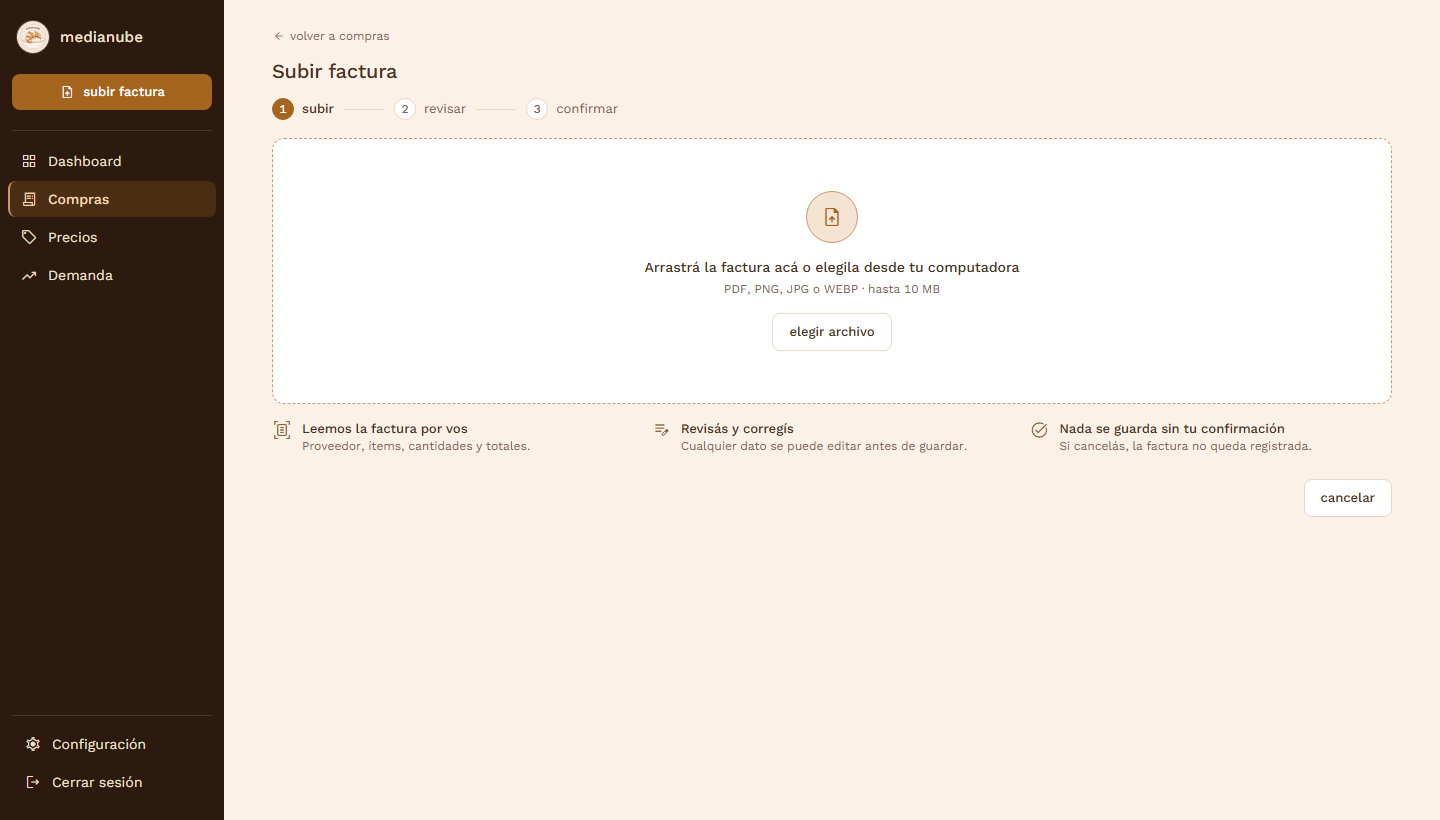
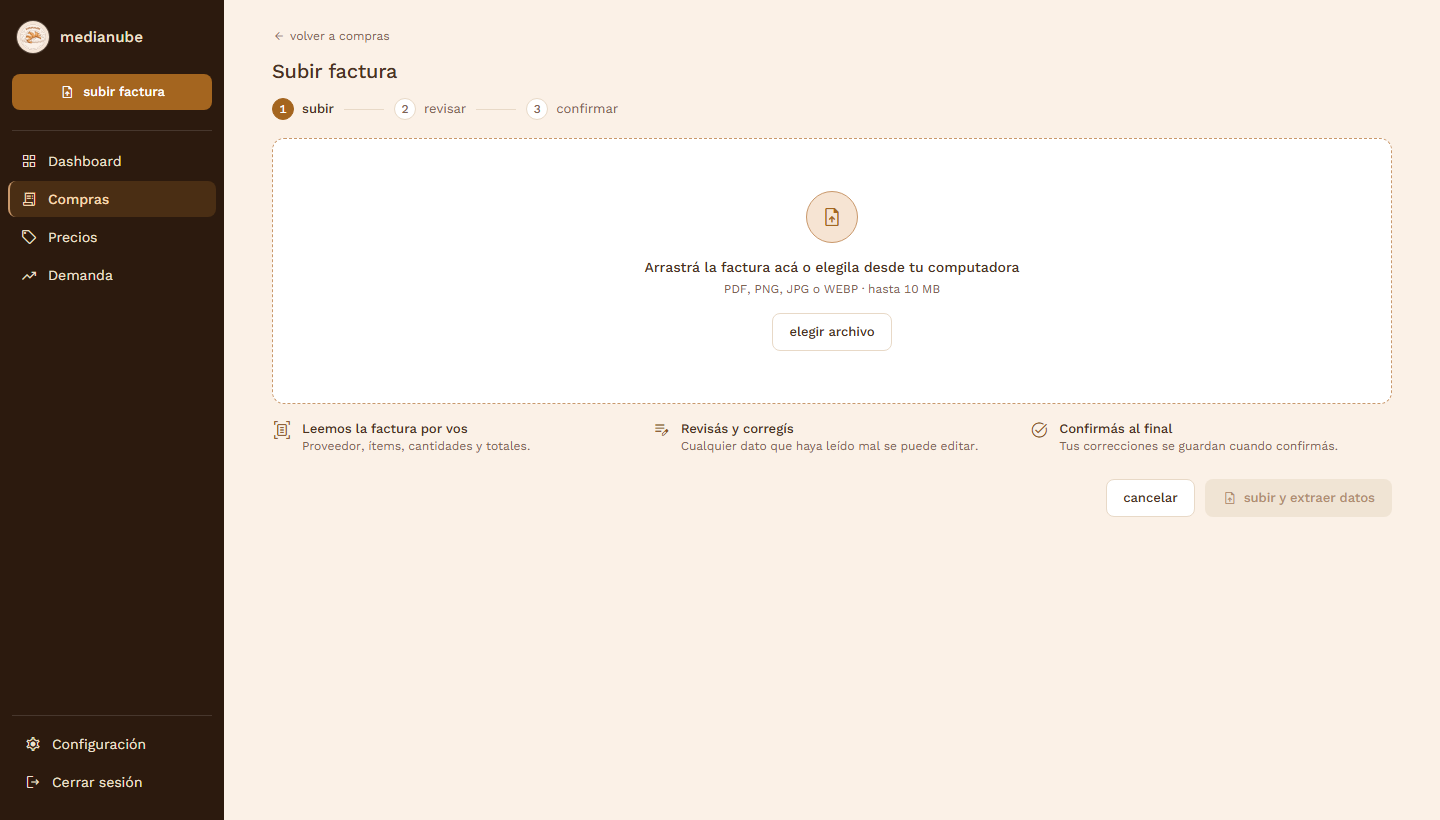
docs(uxui): adapta el plan a los cambios de main en subir factura y demanda

diff --git a/docs/UXUI/plan-mejora/mockups/08-demanda.html b/docs/UXUI/plan-mejora/mockups/08-demanda.html
@@ -10,6 +10,14 @@
   .rec .tr { grid-template-columns: 1fr 160px 140px; }
   .rec .tr > :nth-child(2) { text-align: right; }
   .rec .tr > :nth-child(3) { text-align: center; }
+  .wx { display: grid; grid-template-columns: repeat(7, 1fr); margin-top: 12px; padding-top: 12px; border-top: 1px dashed var(--divider); }
+  .wx div { display: flex; flex-direction: column; align-items: center; gap: 2px; }
+  .wx .ms { font-size: 20px; color: var(--text-2); }
+  .wx b { font-weight: 500; font-size: 13px; }
+  .wx small { font-size: 11px; color: var(--text-2); display: flex; align-items: center; gap: 2px; }
+  .wx small .ms { font-size: 12px; }
+  .wx .rain small { color: var(--text); font-weight: 500; }
+  .seg.days span { padding: 6px 10px; }
 </style>
 </head>
 <body>
@@ -21,9 +29,9 @@
       <div class="ph">
         <div>
           <h1>Predicción de demanda</h1>
-          <p>Cuánto producir en los próximos 7 días, según tu historial de ventas.</p>
+          <p>Cuánto producir en los próximos 7 días, según tu historial de ventas y el clima.</p>
         </div>
-        <span class="btn btn-primary"><span class="ms">autorenew</span>recalcular con IA</span>
+        <span class="btn btn-primary"><span class="ms">autorenew</span>actualizar</span>
       </div>
 
       <div class="alert alert-ia anchor" style="margin-bottom:16px">
@@ -33,44 +41,65 @@
       </div>
 
       <div class="kpis" style="grid-template-columns:repeat(3,1fr);margin-bottom:16px">
-        <div class="kpi anchor">
-          <span class="pin">4</span>
-          <div class="kpi-l">Producción para mañana</div>
-          <div class="kpi-v">315 <small>unidades</small></div>
-          <div class="kpi-s">sábado 14/11</div>
-        </div>
         <div class="kpi">
-          <div class="kpi-l">Próximos 7 días</div>
+          <div class="kpi-l">Producción prevista · próximos 7 días</div>
           <div class="kpi-v">1.633 <small>unidades</small></div>
-          <div class="kpi-s"><span class="ms s14">arrow_upward</span>+11% vs los últimos 7 días</div>
+          <div class="kpi-s">de sábado 14 a viernes 20</div>
         </div>
         <div class="kpi anchor">
           <span class="pin">8</span>
           <div class="kpi-l">Precisión de la predicción</div>
-          <div class="kpi-v">±9%</div>
-          <div class="kpi-s">desvío promedio de las últimas 4 semanas</div>
+          <div class="kpi-v">91,4%</div>
+          <div class="kpi-s">comparada con lo vendido los últimos 7 días</div>
+        </div>
+        <div class="kpi">
+          <div class="kpi-l">Productos en riesgo de faltante</div>
+          <div class="kpi-v">0</div>
+          <div class="kpi-s">ninguna predicción tiene confianza baja</div>
         </div>
       </div>
 
       <div class="card anchor" style="margin-bottom:16px">
         <span class="pin">3</span>
         <div class="card-h">
-          <h2><span class="ms">bar_chart</span>Producción diaria</h2>
-          <div class="legend"><span><i style="background:var(--bar-hist)"></i>últimos 7 días</span><span><i style="background:var(--bar-pred)"></i>predicción</span></div>
+          <h2><span class="ms">bar_chart</span>Producción prevista por día</h2>
+          <span class="f12 t2 row gap4"><span class="ms s14">water_drop</span>los días con lluvia, la producción prevista baja</span>
         </div>
         <div class="card-b" style="padding-top:20px">
-          <div class="chart" data-h="170" data-vals="all"
-               data-hist="296,118,186,172,228,214,262" data-pred="315,130,200,190,250,240,308"
-               data-labels="sá 7,do 8,lu 9,ma 10,mi 11,ju 12,vi 13,sá 14,do 15,lu 16,ma 17,mi 18,ju 19,vi 20"></div>
+          <div class="chart" style="height:190px">
+            <div class="grid" style="bottom:57px"></div><div class="grid" style="bottom:113px"></div>
+            <div class="c"><div class="val pk">315</div><div class="bar p" style="height:170px"></div></div>
+            <div class="c"><div class="val">130</div><div class="bar p" style="height:70px"></div></div>
+            <div class="c"><div class="val">200</div><div class="bar p" style="height:108px"></div></div>
+            <div class="c"><div class="val">190</div><div class="bar p" style="height:103px"></div></div>
+            <div class="c"><div class="val">250</div><div class="bar p" style="height:135px"></div></div>
+            <div class="c"><div class="val">240</div><div class="bar p" style="height:130px"></div></div>
+            <div class="c"><div class="val">308</div><div class="bar p" style="height:166px"></div></div>
+          </div>
+          <div class="xl"><span class="hoy">sá 14 · mañana</span><span>do 15</span><span>lu 16</span><span>ma 17</span><span>mi 18</span><span>ju 19</span><span>vi 20</span></div>
+          <div class="wx anchor">
+            <span class="pin">9</span>
+            <div><span class="ms">sunny</span><b>27°</b><small>0% lluvia</small></div>
+            <div class="rain"><span class="ms">rainy</span><b>19°</b><small><span class="ms">water_drop</span>80% lluvia</small></div>
+            <div><span class="ms">cloud</span><b>21°</b><small>20% lluvia</small></div>
+            <div><span class="ms">sunny</span><b>24°</b><small>10% lluvia</small></div>
+            <div><span class="ms">sunny</span><b>25°</b><small>0% lluvia</small></div>
+            <div><span class="ms">partly_cloudy_day</span><b>23°</b><small>30% lluvia</small></div>
+            <div><span class="ms">sunny</span><b>26°</b><small>5% lluvia</small></div>
+          </div>
         </div>
       </div>
 
       <div class="card rec">
-        <div class="card-h anchor">
-          <span class="pin">5</span>
-          <h2>Producción sugerida para mañana <span class="f13 t2" style="font-weight:400">· sábado 14/11</span>
+        <div class="card-h">
+          <h2>Producción sugerida <span class="f13 t2" style="font-weight:400">· sábado 14/11</span>
             <span class="badge b-ia anchor"><span class="ms">auto_awesome</span>IA<span class="pin out-r">1</span></span></h2>
           <span class="btn btn-secondary btn-sm anchor"><span class="ms s14">print</span>imprimir lista<span class="pin r">7</span></span>
+        </div>
+        <div class="row" style="padding:12px 16px;border-bottom:1px solid var(--border)">
+          <div class="anchor" style="display:inline-flex"><span class="pin">5</span><div class="seg days">
+            <span class="on">sá 14</span><span>do 15</span><span>lu 16</span><span>ma 17</span><span>mi 18</span><span>ju 19</span><span>vi 20</span>
+          </div></div>
         </div>
         <div class="tr th"><span>Producto</span><span>Cantidad</span><span>Confianza</span></div>
         <div class="tr"><span class="fw5">Medialunas de manteca</span><span>100 <span class="f12 t2">unidades</span></span><span><span class="badge b-ok">alta</span></span></div>
@@ -78,9 +107,9 @@
         <div class="tr"><span class="fw5">Medialuna de jamón y queso</span><span>60 <span class="f12 t2">unidades</span></span><span><span class="badge b-ok">alta</span></span></div>
         <div class="tr"><span class="fw5">Tarta de ricota</span><span>40 <span class="f12 t2">porciones</span></span><span><span class="badge b-neu">media</span></span></div>
         <div class="tr"><span class="fw5">Café con leche</span><span>20 <span class="f12 t2">vasos</span></span><span><span class="badge b-neu">media</span></span></div>
-        <div class="tr"><span class="fw5">Té con leche</span><span>15 <span class="f12 t2">vasos</span></span><span><span class="badge b-neu">media</span></span></div>
+        <div class="tr"><span class="fw5">Té con leche</span><span>15 <span class="f12 t2">vasos</span></span><span><span class="badge b-neu">sin dato</span></span></div>
         <div class="row gap6 f12 t2" style="padding:12px 16px;border-top:1px solid var(--border)">
-          <span class="ms s14">info</span>La confianza baja cuando hay pocos datos de un producto. Si la IA no la informa, se muestra «sin dato».
+          <span class="ms s14">info</span>La confianza baja cuando hay pocos datos de un producto. Si no hay información, se muestra «sin dato».
         </div>
       </div>
 

diff --git a/docs/UXUI/plan-mejora/mockups/06c-subir-leyendo.html b/docs/UXUI/plan-mejora/mockups/06c-subir-leyendo.html
@@ -1,0 +1,66 @@
+<!doctype html>
+<html lang="es">
+<head>
+<meta charset="utf-8">
+<title>Subir factura (leyendo) · mockup</title>
+<link href="https://fonts.googleapis.com/css2?family=Work+Sans:wght@400;500&display=block" rel="stylesheet">
+<link href="https://fonts.googleapis.com/css2?family=Material+Symbols+Outlined:opsz,wght,FILL,GRAD@20..48,100..700,0..1,-50..200&display=block" rel="stylesheet">
+<link rel="stylesheet" href="base.css">
+<style>
+  .sk-row { display: grid; grid-template-columns: 2.4fr 90px 130px 120px 110px 32px; column-gap: 16px; align-items: center; padding: 14px 16px; border-top: 1px solid var(--subtle); }
+  .track { height: 4px; border-radius: 999px; background: var(--divider); overflow: hidden; margin-top: 12px; }
+  .track i { display: block; width: 38%; height: 100%; margin-left: 22%; border-radius: 999px; background: var(--accent); }
+</style>
+</head>
+<body>
+<div class="app">
+  <aside class="sidebar" data-active="compras"></aside>
+  <main class="main">
+    <div class="wrap">
+
+      <p class="row gap4 f12 t2" style="margin-bottom:14px"><span class="ms s14">arrow_back</span>volver a compras</p>
+      <div class="ph" style="margin-bottom:14px"><h1>Subir factura</h1></div>
+
+      <div class="steps">
+        <span class="st done"><i><span class="ms s14">check</span></i>subir</span><span class="ln"></span>
+        <span class="st on"><i>2</i>revisar</span><span class="ln"></span>
+        <span class="st"><i>3</i>confirmar</span>
+      </div>
+
+      <div class="card row gap16" style="padding:12px 16px;margin-bottom:12px">
+        <span class="ms s24 tacc">description</span>
+        <div><p class="fw5">factura-distribuidora-sur-0012.pdf</p><p class="f12 t2">412 KB · subida</p></div>
+        <span class="vdiv"></span>
+        <div class="col gap6" style="width:220px"><span class="sk" style="width:70%"></span><span class="sk" style="width:45%;height:8px"></span></div>
+        <span class="grow"></span>
+      </div>
+
+      <div class="alert alert-ia anchor" style="margin-bottom:12px;flex-direction:column;align-items:stretch">
+        <span class="pin">4</span>
+        <div class="row gap10">
+          <span class="ms s18 ia-mark">auto_awesome</span>
+          <p class="grow"><span class="fw5">Leyendo tu factura…</span> Suele tardar unos segundos. Si preferís no esperar, la vas a ver en Compras cuando esté lista.</p>
+        </div>
+        <div class="track"><i></i></div>
+      </div>
+
+      <div class="card" style="margin-bottom:16px">
+        <div class="card-h"><h2>Ítems de la factura</h2></div>
+        <div class="tr th" style="grid-template-columns:2.4fr 90px 130px 120px 110px 32px"><span>Producto</span><span style="text-align:center">Cantidad</span><span class="num">Precio unitario</span><span class="num">Subtotal</span><span style="text-align:center">Confianza</span><span></span></div>
+        <div class="sk-row" style="border-top:none"><div class="col gap6"><span class="sk" style="width:55%"></span><span class="sk" style="width:35%;height:8px"></span></div><span class="sk" style="width:30px;margin:0 auto"></span><span class="sk" style="width:70%;margin-left:auto"></span><span class="sk" style="width:65%;margin-left:auto"></span><span class="sk" style="width:46px;margin:0 auto"></span><span></span></div>
+        <div class="sk-row"><div class="col gap6"><span class="sk" style="width:40%"></span><span class="sk" style="width:28%;height:8px"></span></div><span class="sk" style="width:30px;margin:0 auto"></span><span class="sk" style="width:60%;margin-left:auto"></span><span class="sk" style="width:70%;margin-left:auto"></span><span class="sk" style="width:46px;margin:0 auto"></span><span></span></div>
+        <div class="sk-row"><div class="col gap6"><span class="sk" style="width:62%"></span><span class="sk" style="width:30%;height:8px"></span></div><span class="sk" style="width:30px;margin:0 auto"></span><span class="sk" style="width:66%;margin-left:auto"></span><span class="sk" style="width:58%;margin-left:auto"></span><span class="sk" style="width:46px;margin:0 auto"></span><span></span></div>
+        <div class="sk-row"><div class="col gap6"><span class="sk" style="width:48%"></span><span class="sk" style="width:32%;height:8px"></span></div><span class="sk" style="width:30px;margin:0 auto"></span><span class="sk" style="width:62%;margin-left:auto"></span><span class="sk" style="width:64%;margin-left:auto"></span><span class="sk" style="width:46px;margin:0 auto"></span><span></span></div>
+      </div>
+
+      <div class="row gap10" style="justify-content:flex-end">
+        <span class="btn btn-secondary">volver a compras</span>
+        <span class="btn btn-disabled"><span class="ms">hourglass_empty</span>leyendo…</span>
+      </div>
+
+    </div>
+  </main>
+</div>
+<script src="shell.js"></script>
+</body>
+</html>

diff --git a/docs/UXUI/plan-mejora/mockups/06a-subir-vacio.html b/docs/UXUI/plan-mejora/mockups/06a-subir-vacio.html
@@ -32,12 +32,13 @@
       <div class="anchor" style="display:grid;grid-template-columns:repeat(3,1fr);gap:16px;margin-top:16px">
         <span class="pin">3</span>
         <div class="row gap10" style="align-items:flex-start"><span class="ms s20 tacc-d">document_scanner</span><div><p class="fw5">Leemos la factura por vos</p><p class="help">Proveedor, ítems, cantidades y totales.</p></div></div>
-        <div class="row gap10" style="align-items:flex-start"><span class="ms s20 tacc-d">edit_note</span><div><p class="fw5">Revisás y corregís</p><p class="help">Cualquier dato se puede editar antes de guardar.</p></div></div>
-        <div class="row gap10" style="align-items:flex-start"><span class="ms s20 tacc-d">task_alt</span><div><p class="fw5">Nada se guarda sin tu confirmación</p><p class="help">Si cancelás, la factura no queda registrada.</p></div></div>
+        <div class="row gap10" style="align-items:flex-start"><span class="ms s20 tacc-d">edit_note</span><div><p class="fw5">Revisás y corregís</p><p class="help">Cualquier dato que haya leído mal se puede editar.</p></div></div>
+        <div class="row gap10" style="align-items:flex-start"><span class="ms s20 tacc-d">task_alt</span><div><p class="fw5">Confirmás al final</p><p class="help">Tus correcciones se guardan cuando confirmás.</p></div></div>
       </div>
 
-      <div class="row" style="justify-content:flex-end;margin-top:24px">
-        <span class="btn btn-secondary anchor">cancelar<span class="pin r">2</span></span>
+      <div class="row gap10" style="justify-content:flex-end;margin-top:24px">
+        <span class="btn btn-secondary">cancelar</span>
+        <span class="btn btn-disabled anchor"><span class="ms">upload_file</span>subir y extraer datos<span class="pin r">2</span></span>
       </div>
 
     </div>

diff --git a/docs/UXUI/plan-mejora/mockups/00-componentes.html b/docs/UXUI/plan-mejora/mockups/00-componentes.html
@@ -118,14 +118,14 @@
         <div class="card-h"><h2>Popup de confirmación</h2></div>
         <div class="card-b" style="background:rgba(44,26,14,0.38);border-radius:0 0 12px 12px;padding:20px">
           <div class="dialog" style="width:auto;padding:20px">
-            <h3 style="font-size:16px">¿Descartar esta factura?</h3>
-            <p class="t2">Se pierden los cambios que hiciste en la revisión.</p>
+            <h3 style="font-size:16px">¿Salir sin confirmar?</h3>
+            <p class="t2">La factura ya quedó registrada con lo que leyó la IA. Se pierden tus correcciones.</p>
             <div class="row gap10" style="justify-content:flex-end;margin-top:16px">
               <span class="btn btn-secondary btn-sm">seguir revisando</span>
-              <span class="btn btn-sm" style="background:var(--warn);color:#fff">descartar</span>
+              <span class="btn btn-sm" style="background:var(--warn);color:#fff">salir sin confirmar</span>
             </div>
           </div>
-          <p class="f12" style="color:#F6E4D3;margin-top:10px">Solo para acciones irreversibles o con plata: aplicar precio, descartar factura, salir sin guardar.</p>
+          <p class="f12" style="color:#F6E4D3;margin-top:10px">Solo para acciones irreversibles o con plata: aplicar precio, salir de una revisión, salir sin guardar.</p>
         </div>
       </div>
     </div>

diff --git a/docs/UXUI/plan-mejora/mockups/06b-subir-revision.html b/docs/UXUI/plan-mejora/mockups/06b-subir-revision.html
@@ -37,7 +37,7 @@
         <div><p class="fw5">factura-distribuidora-sur-0012.pdf</p><p class="f12 t2">412 KB</p></div>
         <span class="vdiv"></span>
         <div><p class="fw5">Distribuidora Sur S.A.</p><p class="f12 t2">CUIT 30-71449821-4</p></div>
-        <span class="badge b-ok">coincide 99% con un proveedor tuyo</span>
+        <span class="badge b-ia"><span class="ms">auto_awesome</span>IA</span>
         <span class="grow"></span>
         <span class="btn btn-text btn-sm" style="color:var(--text-2)"><span class="ms s14">close</span>quitar</span>
       </div>
@@ -45,7 +45,7 @@
       <div class="alert alert-ia anchor" style="margin-bottom:12px">
         <span class="pin">5</span>
         <span class="ms s18 ia-mark">auto_awesome</span>
-        <p class="grow">La IA leyó <span class="fw5">8 productos</span> por <span class="fw5">$108.970</span> más impuestos. <span class="twarn fw5">1 producto tiene confianza baja</span>: revisalo antes de guardar.</p>
+        <p class="grow">La IA leyó <span class="fw5">8 productos</span> por <span class="fw5">$108.970</span> más impuestos. <span class="twarn fw5">1 producto tiene confianza baja</span>: revisalo antes de confirmar.</p>
         <span class="link">ver solo ese</span>
       </div>
 

diff --git a/docs/UXUI/plan-mejora/PLAN-MEJORA-UX-UI.md b/docs/UXUI/plan-mejora/PLAN-MEJORA-UX-UI.md
@@ -19,7 +19,18 @@ Plan por etapas para mejorar la experiencia y la interfaz de las 9 pantallas del
 
 Prioridad: **P0** bloquea la tarea · **P1** confunde o puede causar errores (resolver primero) · **P2** molestia con salida alternativa · **P3** pulido.
 
-`📍n` = marcador visible en el PNG de esa pantalla.
+`📍n` = marcador visible en el PNG de esa pantalla. ✅ = ítem ya resuelto (total o parcialmente) en `main`.
+
+### Cambios de `main` incorporados al plan (13/11/2026)
+
+Después de escribir la primera versión del plan entraron a `main` cambios de otro integrante del equipo (PR #98 a #108). Los que tocan la interfaz son dos pantallas; el resto es backend, infraestructura y documentación:
+
+| Pantalla | Qué cambió en `main` | Cómo se adaptó el plan |
+|---|---|---|
+| **Subir factura** | Ítems reales leídos por la IA en lugar de ejemplos, estado de "procesando" y botón en dos pasos ("Subir y extraer datos" → "Confirmar y guardar"). | Ítems 2 y 4 marcados como resueltos en parte. Se agregó el ítem 11 ("Confirmar y guardar" no guarda las correcciones) y se reescribieron el 3, el 5 y el 10. Hay una vista nueva: `06c-subir-leyendo.png`. |
+| **Demanda** | Datos reales de `GET /demanda`, gráfico solo con la predicción, botón "Actualizar" y pronóstico del clima. | Ítem 4 resuelto, ítems 3, 6 y 8 en parte. El 5 pasó a P1 (la tabla mezcla días) y se sumaron el 9 (clima integrado al gráfico) y el 10 (color de los días de lluvia). El mockup `08-demanda.png` se rehízo sobre la pantalla nueva. |
+
+Ningún cambio de `main` contradice la Etapa 0 ni el cambio de paleta (0.15).
 
 ---
 
@@ -39,7 +50,7 @@ Prioridad: **P0** bloquea la tarea · **P1** confunde o puede causar errores (re
 3. **Demasiados botones primarios.** El `DESIGN.md` pide una acción de acento sólido por pantalla. Hoy Precios tiene 8 botones sólidos, el Dashboard 4 y Compras 3.
 4. **Jerga técnica a la vista del usuario:** "Lambda", "DynamoDB", "Gemini", "modelo v2.4", "ID: sug-4e19a695…", "tablas Producto y Receta-nueva", "Estado: completed", "Cargando datos desde la nube".
 5. **Acciones con plata sin confirmación.** "Aplicar precio" cambia el precio de venta con un clic, sin mostrar el antes y el después ni permitir deshacer.
-6. **Datos que se contradicen entre pantallas.** El Dashboard saluda a "Panadería La Espiga" y Configuración dice "Panadería Central". El Dashboard muestra 2 alertas de precio y Precios dice 0. Producción prevista dice 2.180 u. en el Dashboard y 315 u. en Demanda.
+6. **Datos que se contradicen entre pantallas.** El Dashboard saluda a "Panadería La Espiga" y Configuración dice "Panadería Central". El Dashboard muestra 2 alertas de precio y Precios dice 0. Producción prevista dice 2.180 u. en el Dashboard (mock) y otro número en Demanda (datos reales).
 7. **Contraste insuficiente.** `text-secondary` (#8C7361) sobre el fondo crema da 3,98:1 y `text-muted` (#B08D6F) da 2,74:1. Ambos quedan por debajo del mínimo AA (4,5:1) y se usan para subtítulos y textos de ayuda. Además, el texto blanco sobre el acento caramelo (#B5722E) de los botones primarios da 3,9:1.
 
 **Puntaje heurístico estimado (Nielsen, 0–4):** 22/40, **Aceptable**. Los puntos más bajos son *prevención de errores* (1), *consistencia* (2), *diseño minimalista* (2) y *correspondencia con el mundo real* (2, por la jerga técnica).
@@ -176,20 +187,31 @@ Prioridad: **P0** bloquea la tarea · **P1** confunde o puede causar errores (re
 
 ## Etapa 6 · Subir factura — `/compras/subir`
 
-**Objetivo:** cargar una factura y confiar en lo que leyó la IA antes de guardarla. Previsualizaciones: [`06a-subir-vacio.png`](png/06a-subir-vacio.png) (antes de elegir archivo) y [`06b-subir-revision.png`](png/06b-subir-revision.png) (revisión).
+**Objetivo:** cargar una factura y confiar en lo que leyó la IA antes de guardarla. Previsualizaciones: [`06a-subir-vacio.png`](png/06a-subir-vacio.png) (antes de elegir archivo), [`06c-subir-leyendo.png`](png/06c-subir-leyendo.png) (mientras la IA lee la factura) y [`06b-subir-revision.png`](png/06b-subir-revision.png) (revisión).
+
+> **Actualizado con los cambios de `main` del 13/11** (PR #103 y commit `119108a`). La pantalla ya no usa ítems de ejemplo: sube el archivo, espera a que la IA lo lea (consultando `/compras` cada 3 s, hasta 60 s) y muestra los ítems reales. El botón principal ahora es "Subir y extraer datos" y pasa a "Confirmar y guardar" recién cuando hay datos.
 
 | # | Tipo | Qué | Por qué | Prio |
 |---|---|---|---|---|
-| 📍1 | Agregar | **Indicador de pasos** "1 subir · 2 revisar · 3 confirmar". El componente `StepIndicator.tsx` ya existe y no se usa. | Orienta en un flujo de varios pasos (§5.4 del `DESIGN.md`). | P2 |
-| 📍2 | Corregir | Antes de elegir archivo, **ocultar** "Confirmar y guardar". Hoy se ve habilitado aunque no hace nada. | Un botón primario que no responde parece roto. | P1 |
-| 📍3 | Agregar | En el estado vacío, tres líneas breves de qué va a pasar: "leemos proveedor, ítems y totales · vas a poder corregir todo · no se guarda nada hasta que confirmes". | Baja la ansiedad de subir un documento con plata y llena una pantalla que hoy está vacía. | P2 |
-| 4 | Agregar | Estado "leyendo tu factura…" con skeleton de la tabla y barra de progreso mientras la IA extrae los datos. | Hoy la tabla aparece de golpe. Hay que mostrar que el sistema trabaja. | P2 |
-| 📍5 | Resaltar | En el banner de IA: "**1 ítem con confianza baja**: revisalo antes de guardar". La fila correspondiente se marca con fondo de advertencia suave. | La revisión es el paso clave del flujo (§5.4). El usuario tiene que saber *dónde* mirar. | P1 |
-| 📍6 | Simplificar | **Mostrar todos los ítems** (8 no es mucho), sin colapsar a 3. | Con el colapso, la fila de confianza baja (ítem 8) queda oculta, justo la que hay que revisar. | P1 |
-| 📍7 | Simplificar | **Proveedor detectado integrado** en la tarjeta del archivo, en una sola fila: archivo · proveedor · CUIT · coincidencia. | Dos tarjetas para datos del mismo documento es carga visual innecesaria. | P2 |
+| 📍1 | Agregar | **Indicador de pasos** "1 subir · 2 revisar · 3 confirmar". El componente `StepIndicator.tsx` ya existe y no se usa. Con el flujo nuevo, los tres momentos existen de verdad. | Orienta en un flujo de varios pasos (§5.4 del `DESIGN.md`). | P2 |
+| 📍2 | Corregir | ✅ *Resuelto en parte por el compañero:* sin archivo, el botón principal ("Subir y extraer datos") queda deshabilitado en vez de parecer activo. **Falta:** usar el estilo de deshabilitado del sistema (0.3) en lugar de bajar la opacidad, y `cursor: not-allowed` (hoy sigue en `pointer`). | Un botón deshabilitado tiene que verse y comportarse como tal. | P3 |
+| 📍3 | Agregar | En el estado vacío, tres líneas breves de qué va a pasar: "leemos proveedor, ítems y totales · vas a poder corregir todo · confirmás al final". **Ojo:** no prometer "no se guarda nada hasta que confirmes": con el flujo nuevo, la factura queda registrada apenas la IA la lee. | Baja la ansiedad de subir un documento con plata. El texto tiene que decir lo que realmente pasa. | P2 |
+| 📍4 | Corregir | ✅ *Resuelto en parte:* ya existe un estado de "procesando". **Falta:** cambiar el texto "Procesando factura en la cola SQS con Gemini Vision…" por "Leyendo tu factura… suele tardar unos segundos", sumar un skeleton de la tabla y una barra de progreso indeterminada. | Jerga técnica (0.7). El skeleton anticipa qué va a aparecer. | P1 |
+| 📍5 | Corregir | **No inventar confianza.** Hoy todos los ítems que lee la IA se muestran con confianza "alta" fija (el OCR no la informa) y el banner también dice "confianza alta" fijo. Mientras el backend no mande la confianza por ítem, no mostrarla. Cuando la mande, resaltar los ítems con confianza baja en el banner ("1 ítem con confianza baja: revisalo") y en la fila, como en el mockup. | Principio 4 del `DESIGN.md`: decir "alta" sin saberlo hace que el usuario no revise justo lo que debería. | P1 |
+| 📍6 | Simplificar | **Mostrar todos los ítems**, sin colapsar a 3 (`InvoiceTable` no cambió). | Con facturas reales, la fila que hay que revisar puede quedar oculta. | P1 |
+| 📍7 | Simplificar | **Proveedor detectado integrado** en la tarjeta del archivo, en una sola fila: archivo · proveedor · CUIT. El badge "IA OCR" pasa a ser el badge "IA" del sistema (0.6). | Dos tarjetas para datos del mismo documento es carga visual innecesaria. "OCR" es jerga técnica. | P2 |
 | 📍8 | Corregir | Badges de confianza sin `✓` ni `⚠`, y el encabezado de columna "Estado AI" pasa a "confianza". | Ver 0.4. Además "Estado AI" mezcla inglés y no dice qué mide. | P3 |
 | 📍9 | Simplificar | Resumen de totales en bloque a la derecha, como en una factura real: subtotal, IVA, percepciones y total. | El ojo busca el total abajo a la derecha. | P3 |
-| 10 | Agregar | **Popup** al cancelar con datos cargados: "¿descartar esta factura? Se pierden los cambios que hiciste." | Evita perder la revisión por un clic accidental. | P2 |
+| 10 | Agregar | **Popup** al salir de la revisión con correcciones sin confirmar: "¿Salir sin confirmar? La factura ya quedó registrada con lo que leyó la IA; se pierden tus correcciones." | Evita perder la revisión por un clic accidental, sin prometer algo que no pasa. | P2 |
+| 11 | Corregir | **"Confirmar y guardar" no guarda las correcciones**: hoy solo vuelve a Compras y lo editado en la tabla se pierde. Hace falta que mande los ítems corregidos al backend. Mientras tanto, el botón debería llamarse "volver a compras" o la tabla no debería ser editable. | El botón promete algo que no hace (heurística 1). Es el problema más grave de la pantalla. | P1 |
+
+**Copy**
+
+| Antes | Después |
+|---|---|
+| Procesando factura en la cola SQS con Gemini Vision… (esto puede demorar unos segundos) | Leyendo tu factura… suele tardar unos segundos. |
+| El análisis por IA demoró más de 60 segundos. Podés verificar la factura más tarde en el historial de compras. | La lectura está tardando más de lo normal. Te avisamos en Compras cuando esté lista. **[ir a compras]** |
+| Distribuidora detectada · IA OCR | *(una sola fila)* Distribuidora Sur S.A. · CUIT 30-71449821-4 · **IA** |
 
 ---
 
@@ -226,18 +248,32 @@ Prioridad: **P0** bloquea la tarea · **P1** confunde o puede causar errores (re
 
 ## Etapa 8 · Predicción de demanda — `/demanda`
 
-**Objetivo:** saber cuánto producir mañana y anticipar los picos. Previsualización: [`08-demanda.png`](png/08-demanda.png).
+**Objetivo:** saber cuánto producir cada día y anticipar los picos. Previsualización: [`08-demanda.png`](png/08-demanda.png).
+
+> **Actualizado con los cambios de `main` del 13/11** (PR #104, #106 y #108). La pantalla ahora lee datos reales de `GET /demanda` (se fueron los mocks), el gráfico muestra solo la predicción (se quitaron el histórico y el marcador "hoy"), el botón pasó de "Recalcular con IA" a "Actualizar" y se sumó una tarjeta con el **pronóstico del clima** de 7 días.
 
 | # | Tipo | Qué | Por qué | Prio |
 |---|---|---|---|---|
-| 📍1 | Quitar | El banner "Datos con IA. La sugerencia la generó el modelo a partir del contexto enviado a la Lambda.". La marca IA pasa al título de la tabla. El aviso de modo "reglas" se mantiene, pero en lenguaje humano. | Jerga técnica (0.7). El estado normal no necesita un banner: solo el caso excepcional. | P1 |
-| 📍2 | Agregar | **Banner de recomendación del pico** (§5.7): "El sábado se espera el pico de la semana: +35% sobre el promedio. Conviene reforzar medialunas y pan francés." | Es la acción más valiosa de la pantalla y hoy solo aparece en el dashboard. | P2 |
-| 📍3 | Resaltar | Gráfico con **valores** sobre las barras, fecha en el eje X ("sáb 14") y marca "hoy" más clara. | Sin valores ni eje Y, el gráfico solo dice "más alto" o "más bajo". | P2 |
-| 📍4 | Corregir | KPI "producción total prevista: 315 u. para los próximos 7 días": 315 es la suma de *mañana*. Corregir la etiqueta ("para mañana") o el cálculo. | El dato es incorrecto tal como está rotulado. | P1 |
-| 📍5 | Simplificar | La tabla pasa a ser una tarjeta con título "Producción sugerida para mañana · sábado 14/11", columnas "producto · cantidad · confianza" y orden por cantidad. | Hoy el título de la tabla está metido como encabezado de columna en mayúsculas. | P2 |
-| 6 | Corregir | **No inventar confianza**: `asConfidence()` elige un valor *al azar* cuando la API no lo manda. Mostrar "sin dato" en ese caso. | Viola el principio 4 del `DESIGN.md` (honestidad en la incertidumbre): el usuario confía en un dato aleatorio. | P1 |
-| 📍7 | Agregar | Botón secundario "imprimir lista" para el obrador. | En una panadería real, la lista de producción se lleva impresa al horno. | P3 |
-| 📍8 | Corregir | "Precisión del modelo 91,4%" está hardcodeado: mostrarlo solo si viene del backend y explicarlo en simple ("se desvió 9% en promedio las últimas 4 semanas"). | Un número fijo que se presenta como métrica del modelo es engañoso. | P2 |
+| 📍1 | Quitar | El banner "Datos con IA. La sugerencia la generó el modelo a partir del contexto enviado a la Lambda.". Ahora aparece **dos veces**: también sobre el pronóstico del clima, porque `EstadoApi` lo envuelve, y el clima no lo calcula la IA. La marca IA pasa al título de la tabla. El aviso de modo "reglas" se mantiene, pero en lenguaje humano. | Jerga técnica (0.7) y una afirmación falsa sobre el clima. El estado normal no necesita un banner, solo el caso excepcional. | P1 |
+| 📍2 | Agregar | **Banner de recomendación del pico** (§5.7): "El sábado se espera el pico de la semana: +35% sobre el promedio. Conviene reforzar medialunas de manteca y pan francés." | Es la acción más valiosa de la pantalla y todavía no está. | P2 |
+| 📍3 | Resaltar | ✅ *En parte:* sacar el histórico simplificó el gráfico y el marcador "hoy" ya no hace falta. **Falta:** **valores** sobre las barras y la fecha en el eje ("sá 14" en vez de solo "sáb", que se repite si hay más de una semana). | Sin valores ni eje Y, el gráfico solo dice "más alto" o "más bajo". | P2 |
+| 4 | Corregir | ✅ *Resuelto por el compañero:* "producción total prevista para los próximos 7 días" ahora suma los 7 días que devuelve la API, así que el dato coincide con su etiqueta. | — | — |
+| 📍5 | Corregir | **La tabla mezcla días.** Ahora lista los productos de los 7 días juntos sin mostrar la fecha, así que el mismo producto puede aparecer hasta 7 veces sin saber de qué día es cada fila. Sumar un **selector de día** (por defecto, mañana) y titular la tarjeta "Producción sugerida · sábado 14/11", con columnas "producto · cantidad · confianza" y orden por cantidad. | Sin la fecha, la tabla no sirve para planificar la producción. | P1 |
+| 6 | Corregir | ✅ *En parte:* la confianza ya no es aleatoria. **Falta:** cuando la API no la manda, hoy se muestra "media" por defecto. Mostrar "sin dato" en ese caso. | Principio 4 del `DESIGN.md` (honestidad en la incertidumbre). | P2 |
+| 📍7 | Agregar | Botón secundario "imprimir lista" para el obrador (imprime el día elegido en el selector). | En una panadería real, la lista de producción se lleva impresa al horno. | P3 |
+| 📍8 | Corregir | ✅ *En parte:* la precisión ya viene del backend (`precision`). **Falta:** cambiar el subtítulo "backtest de los últimos 7 días" por algo simple: "comparada con lo que se vendió los últimos 7 días". | "Backtest" es jerga técnica. | P3 |
+| 📍9 | Simplificar | **Clima integrado al gráfico.** En lugar de una tarjeta aparte con 7 cajitas, mostrar debajo de cada barra el ícono del clima, la máxima y el % de lluvia. Así se lee directo por qué un día baja la producción (p. ej., domingo con lluvia: 130 u.). Si el pronóstico no está disponible, la fila de clima desaparece y el gráfico sigue igual. | Una tarjeta menos, y el clima queda al lado del dato al que afecta, en vez de obligar a cruzar dos bloques. | P2 |
+| 10 | Corregir | Los días de lluvia se pintan con el fondo de **advertencia** (rojizo). La lluvia es información, no un riesgo: usar el ícono de lluvia y el texto en `text-secondary`, y reservar el rojizo para "riesgo de faltante". | El color de advertencia tiene que significar una sola cosa. | P3 |
+
+**Copy**
+
+| Antes | Después |
+|---|---|
+| No hay predicciones generadas para este usuario. (Espera a que el cronjob corra). | Todavía no hay una predicción. Se genera automáticamente todas las noches. |
+| No se pudo cargar la predicción de demanda desde la base de datos. | No pudimos cargar la predicción. Probá de nuevo en unos segundos. **[reintentar]** |
+| Con lluvia (≥ 60 % o ≥ 2 mm) el modelo reduce la producción prevista | Los días con lluvia, la producción prevista baja. |
+| Precisión del modelo · backtest de los últimos 7 días | Precisión de la predicción · comparada con lo vendido los últimos 7 días |
+| Recomendación de producción *(encabezado de columna)* | Producción sugerida · sábado 14/11 *(título de la tarjeta)* |
 
 ---
 
@@ -266,9 +302,9 @@ Prioridad: **P0** bloquea la tarea · **P1** confunde o puede causar errores (re
 | 1 | **0 · Fundamentos** | Medio | Resuelve de una vez las inconsistencias de todas las pantallas y crea los componentes que usan las demás etapas. |
 | 2 | **7 · Precios** | Alto | La pantalla con más ruido y la única con acciones de plata sin confirmación. |
 | 3 | **4 · Dashboard** | Medio | Es la primera pantalla después del login. |
-| 4 | **6 · Subir factura** | Medio | Flujo principal de carga de datos. La fila de baja confianza hoy queda oculta. |
+| 4 | **6 · Subir factura** | Medio | Flujo principal de carga de datos. "Confirmar y guardar" no guarda las correcciones, y el estado de carga muestra jerga técnica. |
 | 5 | **5 · Compras** | Medio | Unificar filtros y estados. |
-| 6 | **8 · Demanda** | Bajo–medio | Corregir el KPI mal rotulado y la confianza aleatoria. |
+| 6 | **8 · Demanda** | Medio | Separar la tabla por día, sacar el banner de IA (también del clima) e integrar el clima al gráfico. |
 | 7 | **9 · Configuración** | Bajo | Barra de guardado y copy. |
 | 8 | **3 · Onboarding** | Bajo | Requisitos de contraseña y reenviar código. |
 | 9 | **1–2 · Login y recuperar** | Bajo | Pulido. |
@@ -279,12 +315,13 @@ Estas no son de diseño, pero hacen que la interfaz parezca poco confiable:
 
 1. **Nombre del negocio**: el Dashboard dice "Panadería La Espiga" (hardcodeado) y Configuración "Panadería Central" (valor inicial hardcodeado). Debe salir de la cuenta.
 2. **Alertas de precio**: el Dashboard usa un mock con 2 alertas y Precios trae 0 de la API. El Dashboard debería leer el mismo endpoint.
-3. **Producción prevista**: 2.180 u. (mock del Dashboard) vs 315 u. (Demanda, que además es el total de mañana y no de 7 días).
+3. **Producción prevista**: el Dashboard sigue mostrando 2.180 u. (mock), mientras que Demanda ya muestra el total real de 7 días que devuelve `GET /demanda`. El Dashboard debería leer ese mismo endpoint.
 4. **Facturas por revisar**: "4 pendientes de revisión" (Dashboard) vs "3" (KPI de Compras).
 5. **Margen objetivo**: Configuración define panadería 40%, pastelería 45% y bebidas 60%, pero el análisis de IA de Precios habla de "margen objetivo del 60%" para productos de panadería. Revisar qué margen recibe la Lambda.
-6. **Configuración guarda con `usuarioID: "user_test_123"`** fijo. Debe usar el usuario autenticado.
-7. **Precisión del modelo (91,4%)** y **"actualizado hace N minutos"** son valores fijos.
+6. **`usuarioID: "user_test_123"` fijo**: lo usan Configuración al guardar y, desde los cambios del 13/11, también las consultas de Demanda y Clima. Deben usar el usuario autenticado.
+7. **"Actualizado hace N minutos"** sigue siendo un valor fijo (Dashboard y Compras). La precisión del modelo ya viene del backend.
 8. **Nombres de productos**: "Media luna de jyq" (abreviatura del dato cargado) aparece así en Precios. En los mockups se muestra como "Medialuna de jamón y queso".
+9. **Subir factura**: la confianza de cada ítem se muestra siempre "alta" porque el OCR no la informa, y "Confirmar y guardar" no envía las correcciones al backend (ver Etapa 6, ítems 5 y 11).
 
 > Los mockups usan un único set de datos ficticios coherente entre pantallas (315 u. para mañana, 3 facturas por revisar, 2 precios a revisar, objetivo de panadería 40%), justamente para mostrar cómo se ve la interfaz cuando los números coinciden.
 
